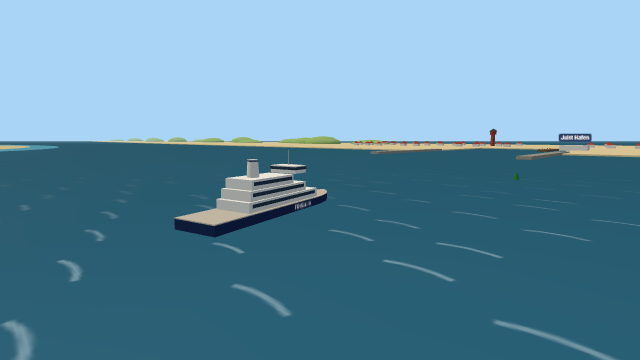
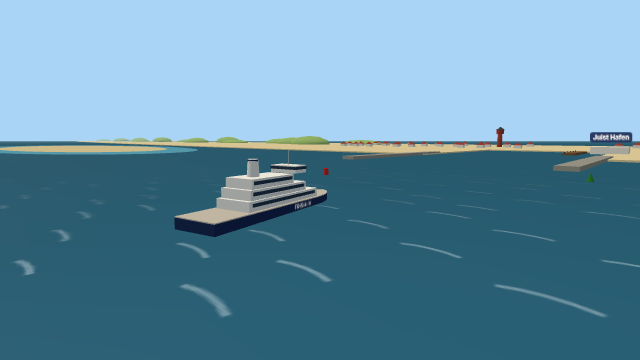
Juist-Faehre: shorten a trip to 2-3 minutes
- World compacted: Norddeich coast at z=-1000, Juist at z=1100, route
  about 2.4 km; sandbanks, buoys and harbour zones moved accordingly
- Faster ship: 16 m/s ahead, 15 %/s acceleration
- Game clock 30x so the 90 game minutes still match the trip
- Boarding at 80 passengers/s, departure 2 game minutes after start
- Spec and tests updated; autopilot run with the real ship model
  measures 2.7 min in both directions without grounding

Claude-Session: https://claude.ai/code/session_01PSNXdsxsnBRGvToUNNnmSe

diff --git a/games/juist-faehre/src/logic/world.ts b/games/juist-faehre/src/logic/world.ts
@@ -1,6 +1,6 @@
 /**
  * Vereinfachtes Wattenmeer zwischen Norddeich (Süden) und Juist (Norden). Meter, x = Osten, z = Norden.
- * Abstände stark verkürzt (eine Fahrt ≈ 5 Minuten). Spec: specs/games/juist-faehre.md
+ * Abstände stark verkürzt (eine Fahrt ≈ 2–3 Minuten, Strecke ≈ 2,4 km). Spec: specs/games/juist-faehre.md
  */
 
 export type Pt = [number, number];
@@ -27,22 +27,22 @@ export const SHIPS: readonly ShipType[] = [
 ];
 export const shipById = (id: string) => SHIPS.find((s) => s.id === id) ?? SHIPS[0]!;
 
-export const BOUNDS = { minX: -2500, maxX: 2500, minZ: -2400, maxZ: 2500 } as const;
+export const BOUNDS = { minX: -2500, maxX: 2500, minZ: -1600, maxZ: 1700 } as const;
 
 /** Festland Norddeich: alles südlich der Küstenlinie, außer dem Hafenbecken. */
-export const COAST_Z = -1800;
-export const NORDDEICH_BASIN: [number, number, number, number] = [-100, -2150, 100, COAST_Z];
+export const COAST_Z = -1000;
+export const NORDDEICH_BASIN: [number, number, number, number] = [-100, -1350, 100, COAST_Z];
 export const NORDDEICH_MOLES: [number, number, number, number][] = [
-  [-115, -1800, -100, -1550],
-  [100, -1800, 115, -1550],
+  [-115, -1000, -100, -800],
+  [100, -1000, 115, -800],
 ];
 
 /** Juist: lange, schmale Insel (Ellipse) mit Hafenbecken auf der Südseite. */
-export const JUIST = { x: 0, z: 1950, rx: 4000, rz: 400 } as const;
-export const JUIST_BASIN: [number, number, number, number] = [-90, 1500, 90, 1800];
+export const JUIST = { x: 0, z: 1100, rx: 4000, rz: 400 } as const;
+export const JUIST_BASIN: [number, number, number, number] = [-90, 650, 90, 950];
 export const JUIST_MOLES: [number, number, number, number][] = [
-  [-105, 1400, -90, 1600],
-  [90, 1400, 105, 1600],
+  [-105, 550, -90, 750],
+  [90, 550, 105, 750],
 ];
 
 export interface Berth {
@@ -59,26 +59,26 @@ export const BERTHS: Record<Berth["id"], Berth> = {
   norddeich: {
     id: "norddeich",
     name: "Norddeich Mole",
-    start: [0, -2080],
+    start: [0, -1280],
     heading: 0,
-    rect: [-40, -2120, 40, -2040],
+    rect: [-40, -1320, 40, -1240],
   },
   juist: {
     id: "juist",
     name: "Juist Hafen",
-    start: [0, 1730],
+    start: [0, 880],
     heading: 180,
-    rect: [-40, 1690, 40, 1770],
+    rect: [-40, 840, 40, 920],
   },
 };
 
 /** Wegpunkte des Fahrwassers (Norddeich → Juist), ohne die Liegeplätze. */
 export const FAIRWAY: readonly Pt[] = [
-  [0, -1600],
-  [300, -900],
-  [-250, -100],
-  [250, 700],
-  [0, 1400],
+  [0, -850],
+  [180, -450],
+  [-120, 0],
+  [120, 350],
+  [0, 550],
 ];
 
 export interface Sandbank {
@@ -89,10 +89,10 @@ export interface Sandbank {
 }
 
 export const SANDBANKS: readonly Sandbank[] = [
-  { x: -1200, z: -700, rx: 500, rz: 220 },
-  { x: 1100, z: 200, rx: 450, rz: 250 },
-  { x: -1100, z: 900, rx: 420, rz: 200 },
-  { x: 1200, z: -1300, rx: 400, rz: 150 },
+  { x: -900, z: -400, rx: 400, rz: 160 },
+  { x: 850, z: 100, rx: 380, rz: 200 },
+  { x: -850, z: 450, rx: 350, rz: 150 },
+  { x: 900, z: -650, rx: 330, rz: 110 },
 ];
 
 const inRect = (x: number, z: number, [x0, z0, x1, z1]: readonly number[]) =>
@@ -118,7 +118,7 @@ export function isNavigable(x: number, z: number): boolean {
 
 /** Innerhalb eines Hafens (Becken + Zufahrt zwischen den Molen). */
 export const isHarbor = (x: number, z: number) =>
-  inRect(x, z, [-130, -2160, 130, -1540]) || inRect(x, z, [-120, 1390, 120, 1810]);
+  inRect(x, z, [-130, -1360, 130, -790]) || inRect(x, z, [-120, 540, 120, 960]);
 
 export const inBerth = (b: Berth, x: number, z: number) => inRect(x, z, b.rect);
 
@@ -131,14 +131,14 @@ export interface Buoy {
 /** Tonnen paarweise entlang des Fahrwassers: rot im Westen (links Richtung Juist), grün im Osten. */
 export const BUOYS: readonly Buoy[] = (() => {
   const out: Buoy[] = [];
-  const pts: Pt[] = [[0, -1500], ...FAIRWAY.slice(1)];
+  const pts: Pt[] = [...FAIRWAY];
   for (let i = 1; i < pts.length; i++) {
     const [ax, az] = pts[i - 1]!;
     const [bx, bz] = pts[i]!;
     const len = Math.hypot(bx - ax, bz - az);
     const nx = -(bz - az) / len; // links (Westen bei Fahrt nach Norden)
     const nz = (bx - ax) / len;
-    for (let d = 150; d < len; d += 350) {
+    for (let d = 120; d < len; d += 260) {
       const x = ax + ((bx - ax) * d) / len;
       const z = az + ((bz - az) * d) / len;
       out.push(

diff --git a/games/juist-faehre/src/logic/ship.test.ts b/games/juist-faehre/src/logic/ship.test.ts
@@ -25,21 +25,23 @@ const run = (s: ShipState, sec: number, c: { throttle: number; rudder: number })
 };
 
 describe("Fahrmodell", () => {
-  it("JF-AK-02: Fahrhebel → Hebel × 12 m/s, rückwärts max. 4 m/s", () => {
-    expect(MAX_AHEAD).toBe(12);
+  it("JF-AK-02: Fahrhebel → Hebel × 16 m/s, rückwärts max. 4 m/s", () => {
+    expect(MAX_AHEAD).toBe(16);
     expect(MAX_ASTERN).toBe(4);
-    expect(run(at(), 120, { throttle: 0.5, rudder: 0 }).state.speed).toBeCloseTo(6, 1);
-    expect(run(at(), 120, { throttle: 1, rudder: 0 }).state.speed).toBeCloseTo(12, 1);
-    expect(run(at(), 120, { throttle: -1, rudder: 0 }).state.speed).toBeCloseTo(-4, 1);
+    // 40 s reichen bei 15 %/s; Start im offenen Fahrwasser, damit kein Land im Weg ist
+    const open = at({ z: -300 });
+    expect(run(open, 40, { throttle: 0.5, rudder: 0 }).state.speed).toBeCloseTo(8, 1);
+    expect(run(open, 40, { throttle: 1, rudder: 0 }).state.speed).toBeCloseTo(16, 1);
+    expect(run(open, 40, { throttle: -1, rudder: 0 }).state.speed).toBeCloseTo(-4, 1);
   });
 
-  it("nähert sich mit 8 %/s an", () => {
+  it("nähert sich mit 15 %/s an", () => {
     const s = stepShip(at(), { throttle: 1, rudder: 0 }, 1).state;
-    expect(s.speed).toBeCloseTo(12 * 0.08, 5);
+    expect(s.speed).toBeCloseTo(16 * 0.15, 5);
   });
 
   it("fährt in Kursrichtung (0° = Norden)", () => {
-    const s = run(at({ speed: 10 }), 1, { throttle: 10 / 12, rudder: 0 }).state;
+    const s = run(at({ speed: 10 }), 1, { throttle: 10 / 16, rudder: 0 }).state;
     expect(s.z).toBeGreaterThan(9);
     expect(Math.abs(s.x)).toBeLessThan(0.01);
   });
@@ -48,7 +50,7 @@ describe("Fahrmodell", () => {
     expect(run(at(), 5, { throttle: 0, rudder: 1 }).state.heading).toBe(0);
     const rate = (v: number) => {
       const s = at({ speed: v, rudder: MAX_RUDDER });
-      const n = stepShip(s, { throttle: v / 12, rudder: 1 }, 0.1).state;
+      const n = stepShip(s, { throttle: v / 16, rudder: 1 }, 0.1).state;
       return ((n.heading - s.heading + 540) % 360) - 180;
     };
     expect(rate(2)).toBeGreaterThan(0);

diff --git a/games/juist-faehre/src/logic/trip.test.ts b/games/juist-faehre/src/logic/trip.test.ts
@@ -23,11 +23,11 @@ const board = (t: Trip) => {
 };
 
 describe("Fahrplan (JF-AK-06/07)", () => {
-  it("Spieluhr läuft 18-fach; Soll-Ankunft = Abfahrt + 90 min", () => {
-    expect(CLOCK_SCALE).toBe(18);
+  it("Spieluhr läuft 30-fach; Soll-Ankunft = Abfahrt + 90 min", () => {
+    expect(CLOCK_SCALE).toBe(30);
     const t = createTrip("frisia-i", "to-juist", 1);
     expect(t.due - t.departure).toBe(TRIP_MINUTES * 60);
-    expect(tick(t, 10, {}).clock - t.clock).toBeCloseTo(180);
+    expect(tick(t, 10, {}).clock - t.clock).toBeCloseTo(300);
   });
 
   it("Ablegen erst, wenn alle an Bord sind und die Abfahrtszeit erreicht ist", () => {
@@ -39,6 +39,18 @@ describe("Fahrplan (JF-AK-06/07)", () => {
     expect(ready.boarded).toBe(ready.passengers);
     expect(ready.clock).toBeGreaterThanOrEqual(ready.departure);
     expect(castOff(ready).phase).toBe("sailing");
+  });
+
+  it("Einsteigen dauert höchstens etwa 4 Sekunden, Abfahrt 2 Spielminuten nach Beginn", () => {
+    const t = createTrip("frisia-i", "to-juist", 9);
+    expect(t.departure - t.clock).toBe(120);
+    let x = t;
+    let real = 0;
+    while (!canCastOff(x)) {
+      x = tick(x, 0.1, {});
+      real += 0.1;
+    }
+    expect(real).toBeLessThanOrEqual(4.2);
   });
 
   it("Passagierzahl 100–300", () => {

diff --git a/games/juist-faehre/src/logic/world.test.ts b/games/juist-faehre/src/logic/world.test.ts
@@ -63,13 +63,13 @@ describe("Welt (JF-AK-05)", () => {
     expect(isNavigable(0, 0)).toBe(true);
   });
 
-  it("Strecke ist so lang, dass eine Fahrt etwa 5 Minuten dauert", () => {
+  it("Strecke ist so lang, dass eine Fahrt etwa 2–3 Minuten dauert", () => {
     const pts = [BERTHS.norddeich.start, ...FAIRWAY, BERTHS.juist.start];
     let len = 0;
     for (let i = 1; i < pts.length; i++)
       len += Math.hypot(pts[i]![0] - pts[i - 1]![0], pts[i]![1] - pts[i - 1]![1]);
-    // bei Reisetempo 12 m/s: 4–6 Minuten
-    expect(len / 12).toBeGreaterThan(200);
-    expect(len / 12).toBeLessThan(360);
+    // bei Reisetempo 16 m/s reine Fahrzeit ≈ 2,5 min; mit Beschleunigen und Anlegen 2–3 Minuten
+    expect(len / 16).toBeGreaterThan(120);
+    expect(len / 16).toBeLessThan(170);
   });
 });

diff --git a/games/juist-faehre/src/logic/trip.ts b/games/juist-faehre/src/logic/trip.ts
@@ -1,12 +1,12 @@
 import type { ShipState } from "./ship.ts";
 import { BERTHS, inBerth } from "./world.ts";
 
-export const CLOCK_SCALE = 18;
+export const CLOCK_SCALE = 30;
 export const TRIP_MINUTES = 90;
 export const ARRIVAL_PUNCTUAL_MIN = 5;
 export const HEEL_LIMIT = 4;
-export const BOARD_RATE = 40;
-const BOARD_LEAD_MINUTES = 4;
+export const BOARD_RATE = 80;
+const BOARD_LEAD_MINUTES = 2;
 
 export type Direction = "to-juist" | "to-norddeich";
 

diff --git a/games/juist-faehre/src/logic/ship.ts b/games/juist-faehre/src/logic/ship.ts
@@ -1,8 +1,8 @@
 import { isHarbor, isNavigable } from "./world.ts";
 
-export const MAX_AHEAD = 12;
+export const MAX_AHEAD = 16;
 export const MAX_ASTERN = 4;
-export const ACCEL_RATE = 0.08;
+export const ACCEL_RATE = 0.15;
 export const MAX_RUDDER = 35;
 const RUDDER_RATE = 30;
 const TURN_PER_SPEED = 0.9;

diff --git a/specs/games/juist-faehre.md b/specs/games/juist-faehre.md
@@ -8,7 +8,7 @@
 
 3D-Schiffssimulator: Man ist Kapitän einer Fähre und fährt **von Norddeich nach Juist und
 zurück**. Es geht um den **Fahrplan** (pünktlich ablegen und ankommen) und um zufriedene
-**Passagiere** (ruhige Fahrt, sanftes Anlegen). Eine Fahrt dauert etwa **5 Minuten**.
+**Passagiere** (ruhige Fahrt, sanftes Anlegen). Eine Fahrt dauert etwa **2–3 Minuten**.
 
 ## Schiffe
 
@@ -29,7 +29,7 @@ Frisia I, Frisia II, Frisia III, Frisia IV, Frisia VII, Frisia VIII, Frisia IX, 
 - **Wattenmeer** dazwischen, **Juist** (Norden): lange, schmale Insel mit Dünen, Strand, Ort und
   Hafen mit Anleger auf der Südseite.
 - **Fahrwasser** mit grünen und roten Tonnen als Orientierung. Abstände stark verkürzt, damit eine
-  Fahrt etwa 5 Minuten dauert.
+  Fahrt etwa 2–3 Minuten dauert (Strecke ca. 2,4 km).
 - **Land und Sandbänke:** Das Schiff kann nicht an Land fahren; bei Grundberührung bleibt es heil,
   stoppt sanft (Meldung „Auf Grund gelaufen!“) und kostet Zufriedenheit.
 - Tageslicht, leichte Wellen, Möwen optional.
@@ -48,7 +48,7 @@ Frisia I, Frisia II, Frisia III, Frisia IV, Frisia VII, Frisia VIII, Frisia IX, 
 
 ## Fahrplan und Zeit
 
-- **Spieluhr:** 1 Sekunde echte Zeit = 18 Sekunden Spielzeit (5 Minuten ≈ 1,5 Stunden, wie die
+- **Spieluhr:** 1 Sekunde echte Zeit = 30 Sekunden Spielzeit (3 Minuten ≈ 1,5 Stunden, wie die
   echte Überfahrt).
 - Jede Fahrt hat **Abfahrt** und **Soll-Ankunft** (90 Spielminuten später).
 - **Pünktlichkeit:** Ankunft bis 5 Spielminuten nach Soll = pünktlich; jede weitere Minute
@@ -56,7 +56,8 @@ Frisia I, Frisia II, Frisia III, Frisia IV, Frisia VII, Frisia VIII, Frisia IX, 
 
 ## Passagiere
 
-- Anzahl je Fahrt zufällig (100–300). Einsteigen dauert wenige Sekunden.
+- Anzahl je Fahrt zufällig (100–300). Einsteigen dauert höchstens etwa 4 Sekunden (80 pro
+  Sekunde); die Abfahrt ist 2 Spielminuten nach Spielbeginn.
 - **Zufriedenheit** startet bei 100 % und sinkt bei:
   - Grundberührung (−15 %),
   - zu scharfen Kurven bei hoher Fahrt (Schräglage, −1 % pro Sekunde),
@@ -69,7 +70,7 @@ Frisia I, Frisia II, Frisia III, Frisia IV, Frisia VII, Frisia VIII, Frisia IX, 
 Reine Logik in TypeScript, testbar ohne 3D.
 
 - **Fahrhebel:** −1 (voll zurück) bis +1 (voll voraus) in Stufen; Geschwindigkeit nähert sich
-  Fahrhebel × 12 m/s mit 8 %/s an (rückwärts höchstens 4 m/s).
+  Fahrhebel × 16 m/s mit 15 %/s an (rückwärts höchstens 4 m/s).
 - **Ruder:** −35° bis +35°; Drehrate wächst mit der Geschwindigkeit (bei 0 m/s keine Drehung).
 - **Schräglage** wächst mit Ruder × Geschwindigkeit; über einer Grenze sinkt die Zufriedenheit.
 - **Grund:** Wasser unter einer Mindesttiefe (Land, Sandbank) → Schiff stoppt, wird zurück ins
@@ -102,12 +103,13 @@ Fahrplan/Passagiere und Logbuch als reines TypeScript.
 ## Akzeptanzkriterien
 
 - **JF-AK-01** Alle 8 Schiffe sind wählbar; jedes Modell trägt seinen Namen; keine Bilddateien.
-- **JF-AK-02** Fahrhebel: Geschwindigkeit nähert sich Hebel × 12 m/s (rückwärts max. 4 m/s).
+- **JF-AK-02** Fahrhebel: Geschwindigkeit nähert sich Hebel × 16 m/s mit 15 %/s (rückwärts
+  max. 4 m/s).
 - **JF-AK-03** Ruder: keine Drehung im Stand; Drehrate wächst mit der Geschwindigkeit.
 - **JF-AK-04** Land/Sandbank: Schiff fährt nicht auf Land, stoppt, bleibt heil; Zufriedenheit −15 %.
 - **JF-AK-05** Fahrwasser von Hafen zu Hafen ist durchgehend tief genug (alle Tonnen-Wegpunkte im
-  Wasser); beide Anleger liegen im Wasser.
-- **JF-AK-06** Spieluhr läuft 18-fach; Soll-Ankunft = Abfahrt + 90 Spielminuten.
+  Wasser); beide Anleger liegen im Wasser; bei Reisetempo dauert die Strecke 2–3 Minuten.
+- **JF-AK-06** Spieluhr läuft 30-fach; Soll-Ankunft = Abfahrt + 90 Spielminuten.
 - **JF-AK-07** Ablegen erst, wenn alle Passagiere an Bord sind.
 - **JF-AK-08** Festmachen nur im Anlegebereich und unter 1 m/s; Aufprall > 1 m/s kostet 10 %.
 - **JF-AK-09** Zufriedenheit sinkt bei Schräglage und Verspätung wie beschrieben; Sterne 1–3 aus
